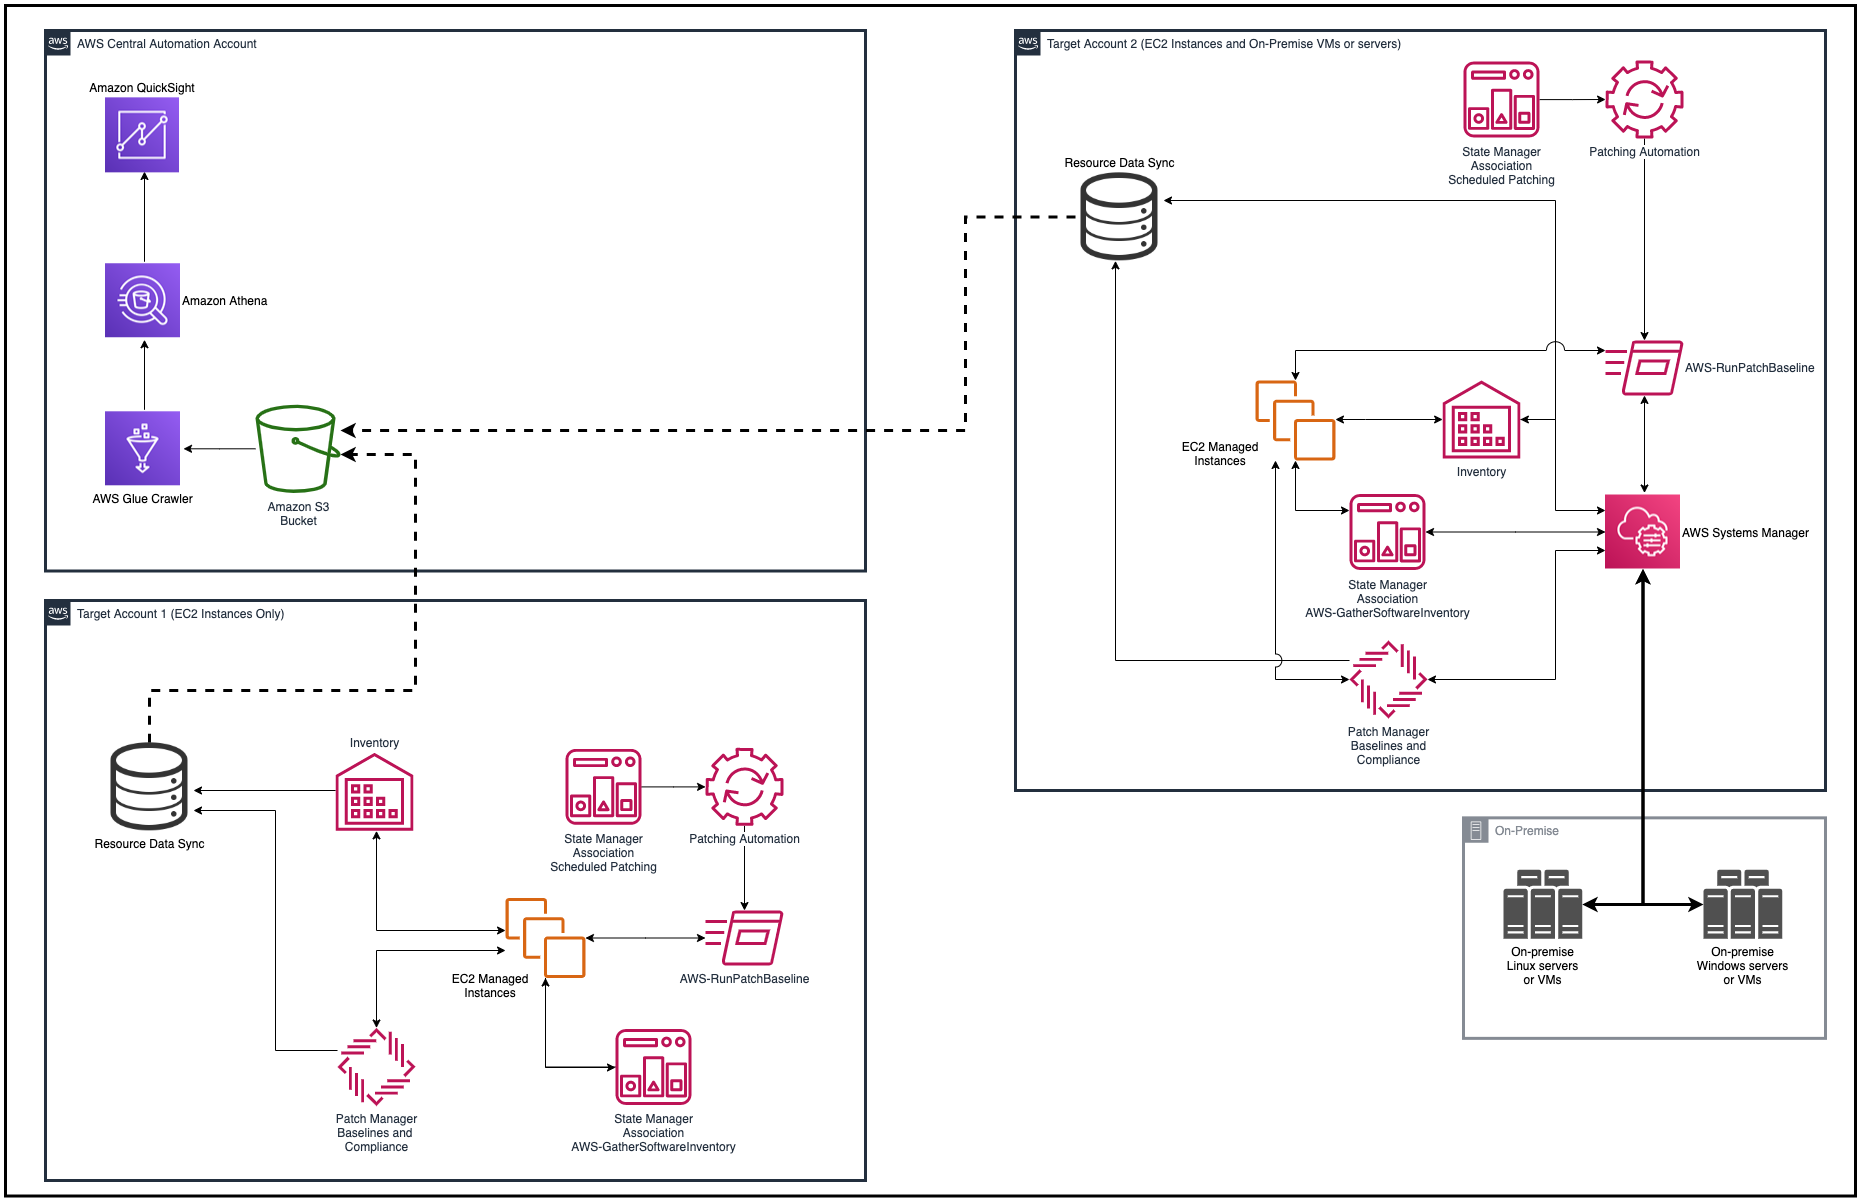
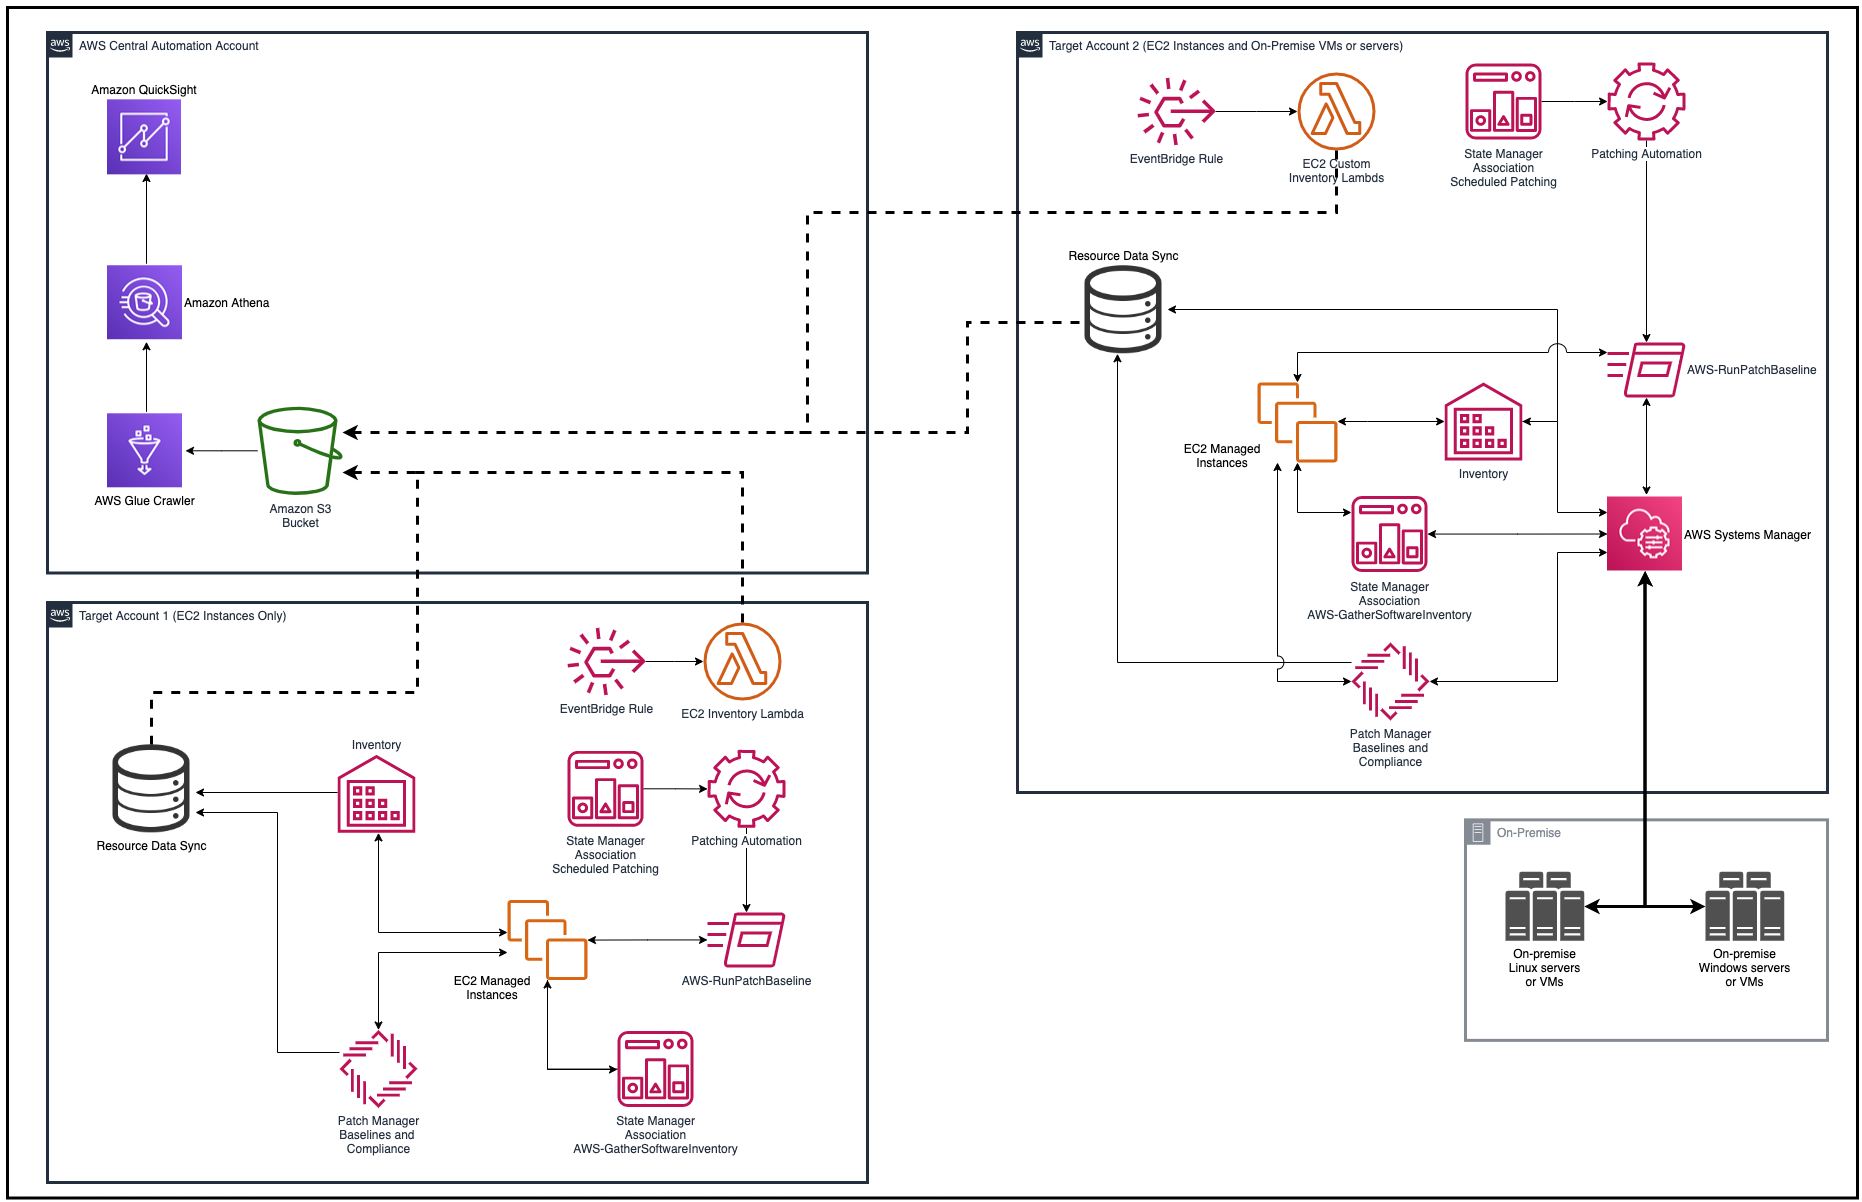
More documentation cleanup

diff --git a/AWSSystemsManager/CentralizedPatchManagement/README.md b/AWSSystemsManager/CentralizedPatchManagement/README.md
@@ -82,7 +82,7 @@ In this section, we take a closer look at the following concepts of AWS Systems 
 
 After deploying the `opsmgmt-central-account.yaml` CloudFormation template in the central account, you will have an central account where inventory data is aggregated, as well as a Glue crawler that index inventory data so that it be queries in Athena. 
 
-Deploying the `opsmgmt-target-account-inventory,yml` template into target accounts and regions will setup a Resource Data Sync that sends instance inventory data to the S3 bucket in the central account. Additionally, a State Manager Association will be created to gather software inventory data (applications installed, AWS components, network configuration, etc.). Compliance data will be reported based on the success of gathering of inventory data (Compliant if the operation completed successfully or non-compliant if the resource did not gather inventory successfully).
+Deploying the `opsmgmt-target-account-inventory,yml` template into target accounts and regions will setup a Resource Data Sync that sends instance inventory data to the S3 bucket in the central account. A State Manager Association will be created to gather software inventory data (applications installed, AWS components, network configuration, etc.). Compliance data will be reported based on the success of gathering of inventory data (Compliant if the operation completed successfully or non-compliant if the resource did not gather inventory successfully). Additionally, Event Bridge rules invoke a Lambda function that gathers EC2 instance information and writes it to a `Custom` location in the resource data sync bucket of the target account. This captures both managed and unmanaged EC2 instances, which is useful for identifying instances that aren't managed by Systems Manager as well as getting the instance status (i.e. running, stopped)
 
 Deploying the `opsmgmt-target-account-patching.yaml` template into target accounts and regions will setup default patch baselines for each operating system (these could be customized) and a Systems Manager Automation Document that performs instance patching. The Automation Document will, optionally, automatically start stopped instances, patch them, and then stop them again. Finally, a State Manager Association is created that, by default, executions the patching automation on all instances in the account every Saturday at 11:59 PM. 
 
@@ -249,9 +249,10 @@ Amazon Athena Resources:
 
 AWS Systems Manager Resources:
 
-- AutomationExecutionServiceRole: Automation Execution IAM Service Role
 - ResourceDataSync: Resource Data Sync
 - InventoryAssociation: State Manager Association for ```AWS-GatherSoftwareInventory```
+- EC2 Custom Inventory Lambda Function: Collects details of EC2 instances ans writes them to the same S3 bucket as Resource Data Sync. 
+- EventBridge Rules: One rule runs every 6 hours. Another rule runs on instance state change (i.e. stopped, running, terminated). Both rules invoke the EC2 Custom Inventory Lambda Function
 
 ### Resources created by opsmgmt-target-account-patching.yaml
 
